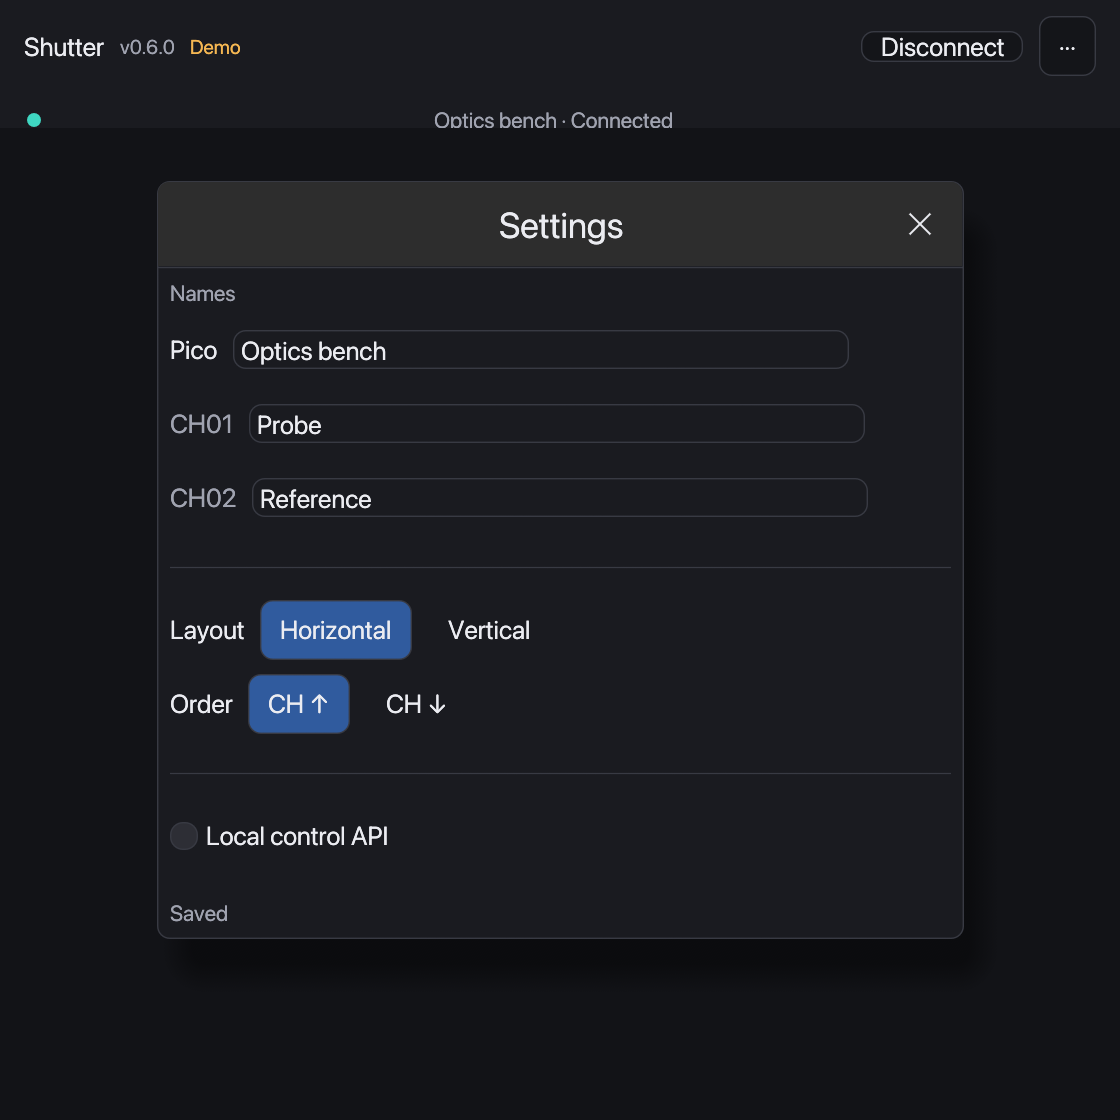
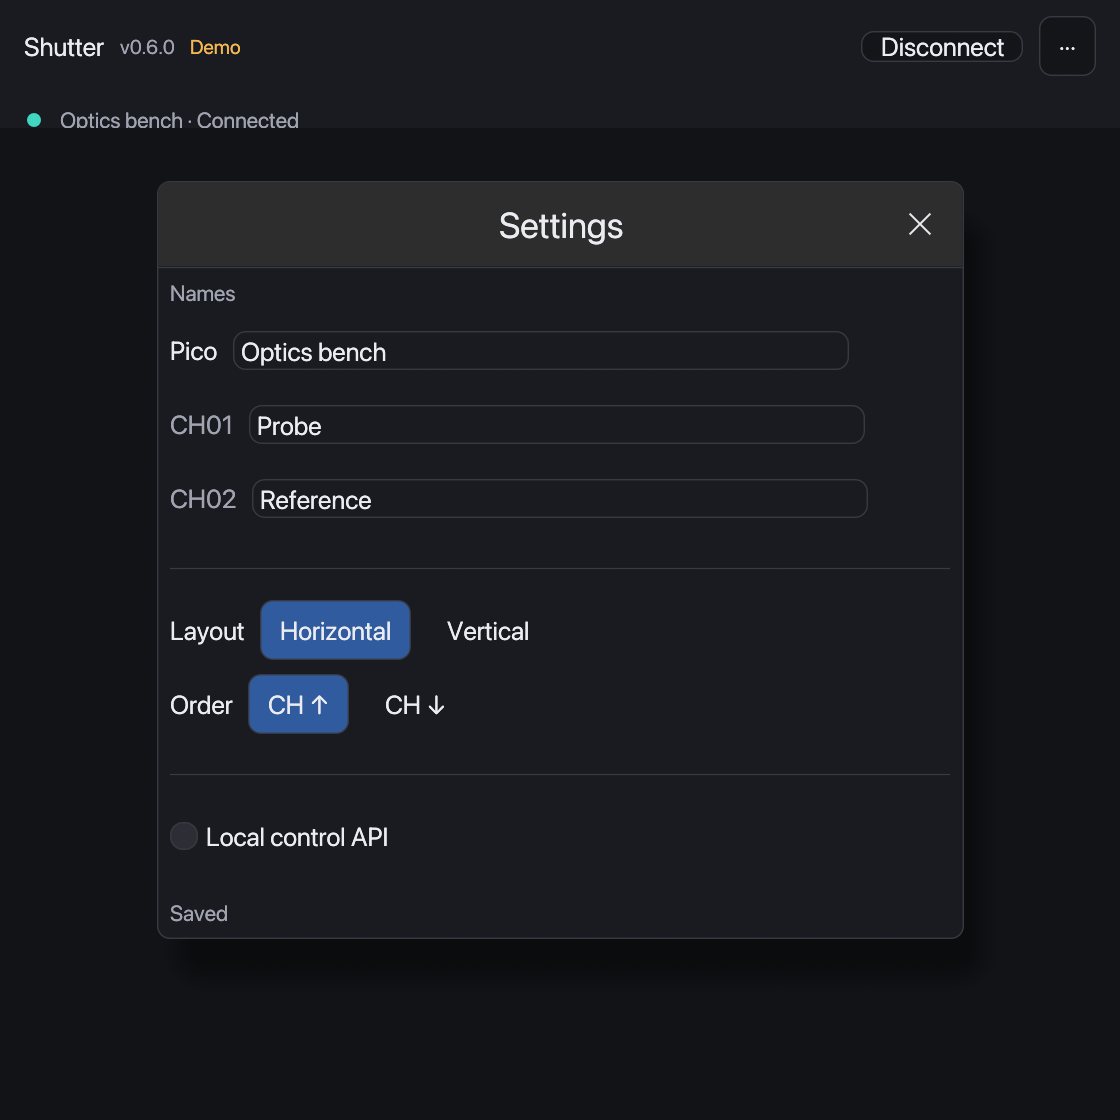
Keep compact status aligned and scroll long settings forms

diff --git a/src/bin/gui.rs b/src/bin/gui.rs
@@ -1456,87 +1456,95 @@ impl App {
             .resizable(false)
             .default_width(390.0)
             .show(ctx, |ui| {
-                ui.add_enabled_ui(!self.control.owned(), |ui| {
-                    ui.label(RichText::new("Names").small().color(MUTED));
-                    ui.horizontal(|ui| {
-                        ui.label("Pico");
-                        if ui
-                            .add(
-                                egui::TextEdit::singleline(&mut self.device_label)
-                                    .char_limit(32)
-                                    .desired_width(300.0),
-                            )
-                            .changed()
-                        {
-                            self.dirty_device = true;
-                            self.changed_label();
-                        }
-                    });
-                    let channels = self.ordered_channels();
-                    for channel in channels {
-                        ui.horizontal(|ui| {
-                            ui.label(RichText::new(format!("CH{channel:02}")).color(MUTED));
-                            let value = self
-                                .channel_labels
-                                .entry(channel)
-                                .or_insert_with(|| format!("CH{channel:02}"));
-                            if ui
-                                .add(
-                                    egui::TextEdit::singleline(value)
-                                        .char_limit(32)
-                                        .desired_width(300.0),
-                                )
-                                .changed()
-                            {
-                                self.dirty_channels.insert(channel);
+                egui::ScrollArea::vertical()
+                    .max_height(460.0)
+                    .show(ui, |ui| {
+                        ui.add_enabled_ui(!self.control.owned(), |ui| {
+                            ui.label(RichText::new("Names").small().color(MUTED));
+                            ui.horizontal(|ui| {
+                                ui.label("Pico");
+                                if ui
+                                    .add(
+                                        egui::TextEdit::singleline(&mut self.device_label)
+                                            .char_limit(32)
+                                            .desired_width(300.0),
+                                    )
+                                    .changed()
+                                {
+                                    self.dirty_device = true;
+                                    self.changed_label();
+                                }
+                            });
+                            let channels = self.ordered_channels();
+                            for channel in channels {
+                                ui.horizontal(|ui| {
+                                    ui.label(RichText::new(format!("CH{channel:02}")).color(MUTED));
+                                    let value = self
+                                        .channel_labels
+                                        .entry(channel)
+                                        .or_insert_with(|| format!("CH{channel:02}"));
+                                    if ui
+                                        .add(
+                                            egui::TextEdit::singleline(value)
+                                                .char_limit(32)
+                                                .desired_width(300.0),
+                                        )
+                                        .changed()
+                                    {
+                                        self.dirty_channels.insert(channel);
+                                        self.changed_label();
+                                    }
+                                });
+                            }
+                            ui.add_space(10.0);
+                            ui.separator();
+                            ui.add_space(6.0);
+                            ui.horizontal(|ui| {
+                                ui.label("Layout");
+                                ui.selectable_value(
+                                    &mut self.layout,
+                                    Layout::Horizontal,
+                                    "Horizontal",
+                                );
+                                ui.selectable_value(&mut self.layout, Layout::Vertical, "Vertical");
+                            });
+                            ui.horizontal(|ui| {
+                                ui.label("Order");
+                                ui.selectable_value(&mut self.order, Order::Ascending, "CH ↑");
+                                ui.selectable_value(&mut self.order, Order::Descending, "CH ↓");
+                            });
+                        });
+                        ui.add_space(10.0);
+                        ui.separator();
+                        ui.add_space(6.0);
+                        self.automation_settings(ui);
+                        ui.add_space(10.0);
+                        if !self.config_error.is_empty() {
+                            ui.label(RichText::new(&self.config_error).small().color(ORANGE));
+                            if ui.button("Retry").clicked() {
                                 self.changed_label();
                             }
-                        });
-                    }
-                    ui.add_space(10.0);
-                    ui.separator();
-                    ui.add_space(6.0);
-                    ui.horizontal(|ui| {
-                        ui.label("Layout");
-                        ui.selectable_value(&mut self.layout, Layout::Horizontal, "Horizontal");
-                        ui.selectable_value(&mut self.layout, Layout::Vertical, "Vertical");
+                        }
+                        if !self.preferences_error.is_empty() {
+                            ui.label(RichText::new(&self.preferences_error).small().color(ORANGE));
+                            if !self.preferences_blocked && ui.button("Retry PC save").clicked() {
+                                self.persist_preferences(true);
+                            }
+                        }
+                        if self.config_error.is_empty() && self.preferences_error.is_empty() {
+                            let pending = self.dirty_device
+                                || !self.dirty_channels.is_empty()
+                                || self.config_pending.is_some()
+                                || self.preferences_due.is_some()
+                                || (self.preferences_path.is_some()
+                                    && self.current_preferences() != self.preferences_saved);
+                            ui.label(
+                                RichText::new(if pending { "Saving…" } else { "Saved" })
+                                    .small()
+                                    .color(MUTED),
+                            );
+                        }
                     });
-                    ui.horizontal(|ui| {
-                        ui.label("Order");
-                        ui.selectable_value(&mut self.order, Order::Ascending, "CH ↑");
-                        ui.selectable_value(&mut self.order, Order::Descending, "CH ↓");
-                    });
-                });
-                ui.add_space(10.0);
-                ui.separator();
-                ui.add_space(6.0);
-                self.automation_settings(ui);
-                ui.add_space(10.0);
-                if !self.config_error.is_empty() {
-                    ui.label(RichText::new(&self.config_error).small().color(ORANGE));
-                    if ui.button("Retry").clicked() {
-                        self.changed_label();
-                    }
-                }
-                if !self.preferences_error.is_empty() {
-                    ui.label(RichText::new(&self.preferences_error).small().color(ORANGE));
-                    if !self.preferences_blocked && ui.button("Retry PC save").clicked() {
-                        self.persist_preferences(true);
-                    }
-                }
-                if self.config_error.is_empty() && self.preferences_error.is_empty() {
-                    let pending = self.dirty_device
-                        || !self.dirty_channels.is_empty()
-                        || self.config_pending.is_some()
-                        || self.preferences_due.is_some()
-                        || (self.preferences_path.is_some()
-                            && self.current_preferences() != self.preferences_saved);
-                    ui.label(
-                        RichText::new(if pending { "Saving…" } else { "Saved" })
-                            .small()
-                            .color(MUTED),
-                    );
-                }
             });
         self.settings_open = open;
     }
@@ -1732,13 +1740,21 @@ impl App {
                             } else {
                                 0.0
                             };
-                        ui.add_sized(
-                            [(ui.available_width() - reserve).max(30.0), 14.0],
-                            egui::Label::new(RichText::new(&status).size(11.0).color(MUTED))
-                                .truncate()
-                                .halign(egui::Align::Min),
-                        )
-                        .on_hover_text(&status);
+                        let width = (ui.available_width() - reserve).max(30.0);
+                        ui.allocate_ui_with_layout(
+                            Vec2::new(width, 14.0),
+                            egui::Layout::left_to_right(egui::Align::Center),
+                            |ui| {
+                                ui.set_min_width(width);
+                                ui.add(
+                                    egui::Label::new(
+                                        RichText::new(&status).size(11.0).color(MUTED),
+                                    )
+                                    .truncate(),
+                                )
+                                .on_hover_text(&status);
+                            },
+                        );
                         if (!self.config_error.is_empty() || !self.preferences_error.is_empty())
                             && ui
                                 .small_button(RichText::new("Unsaved").color(ORANGE))
